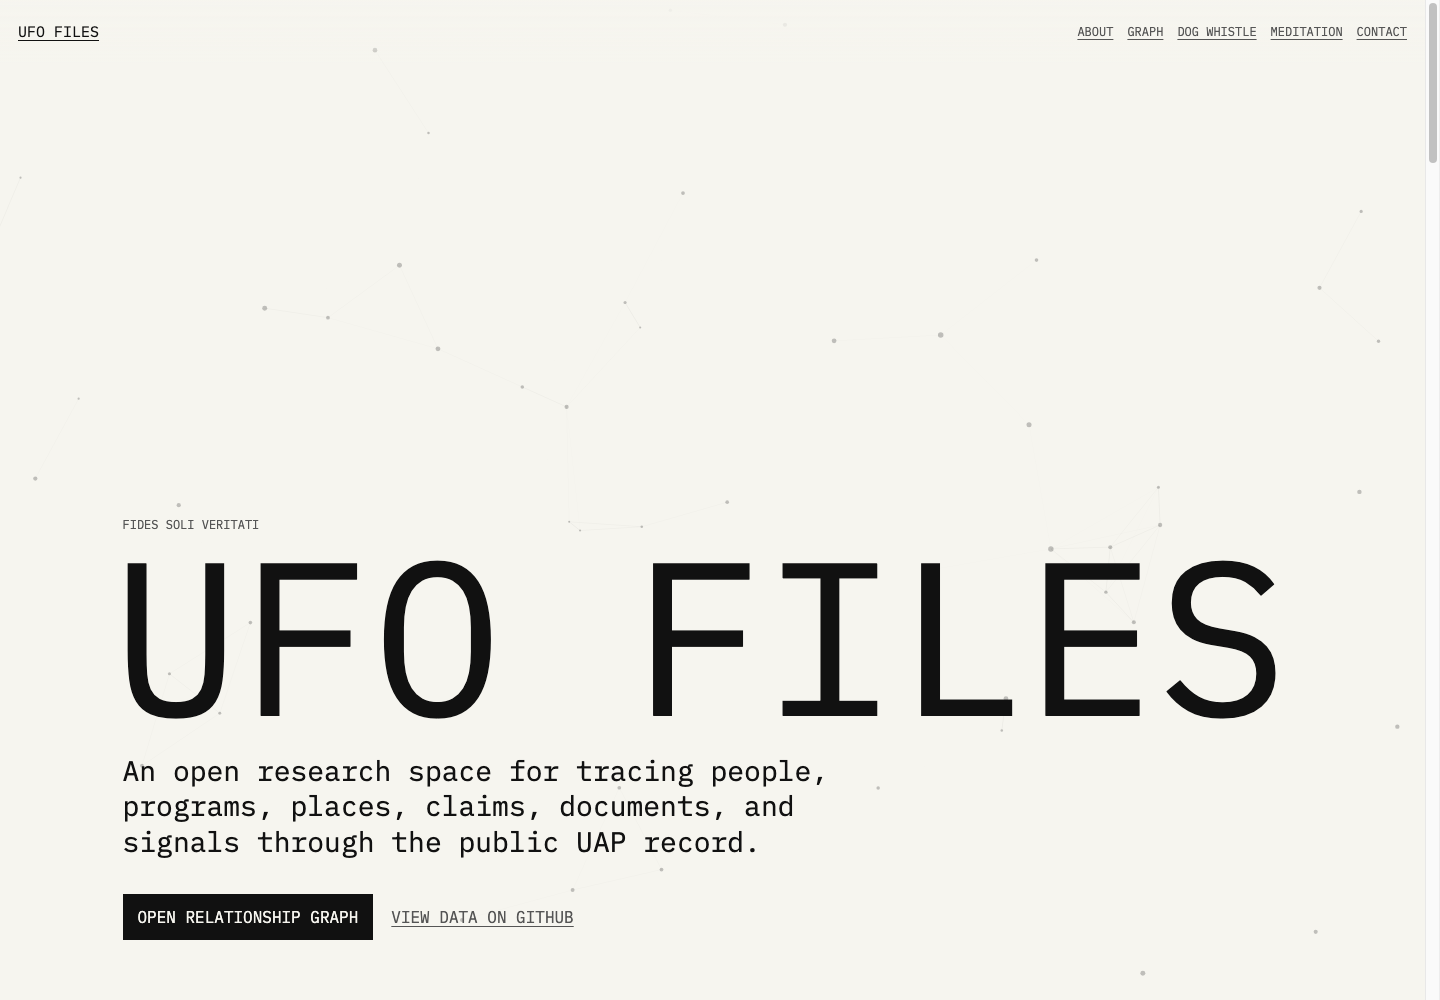
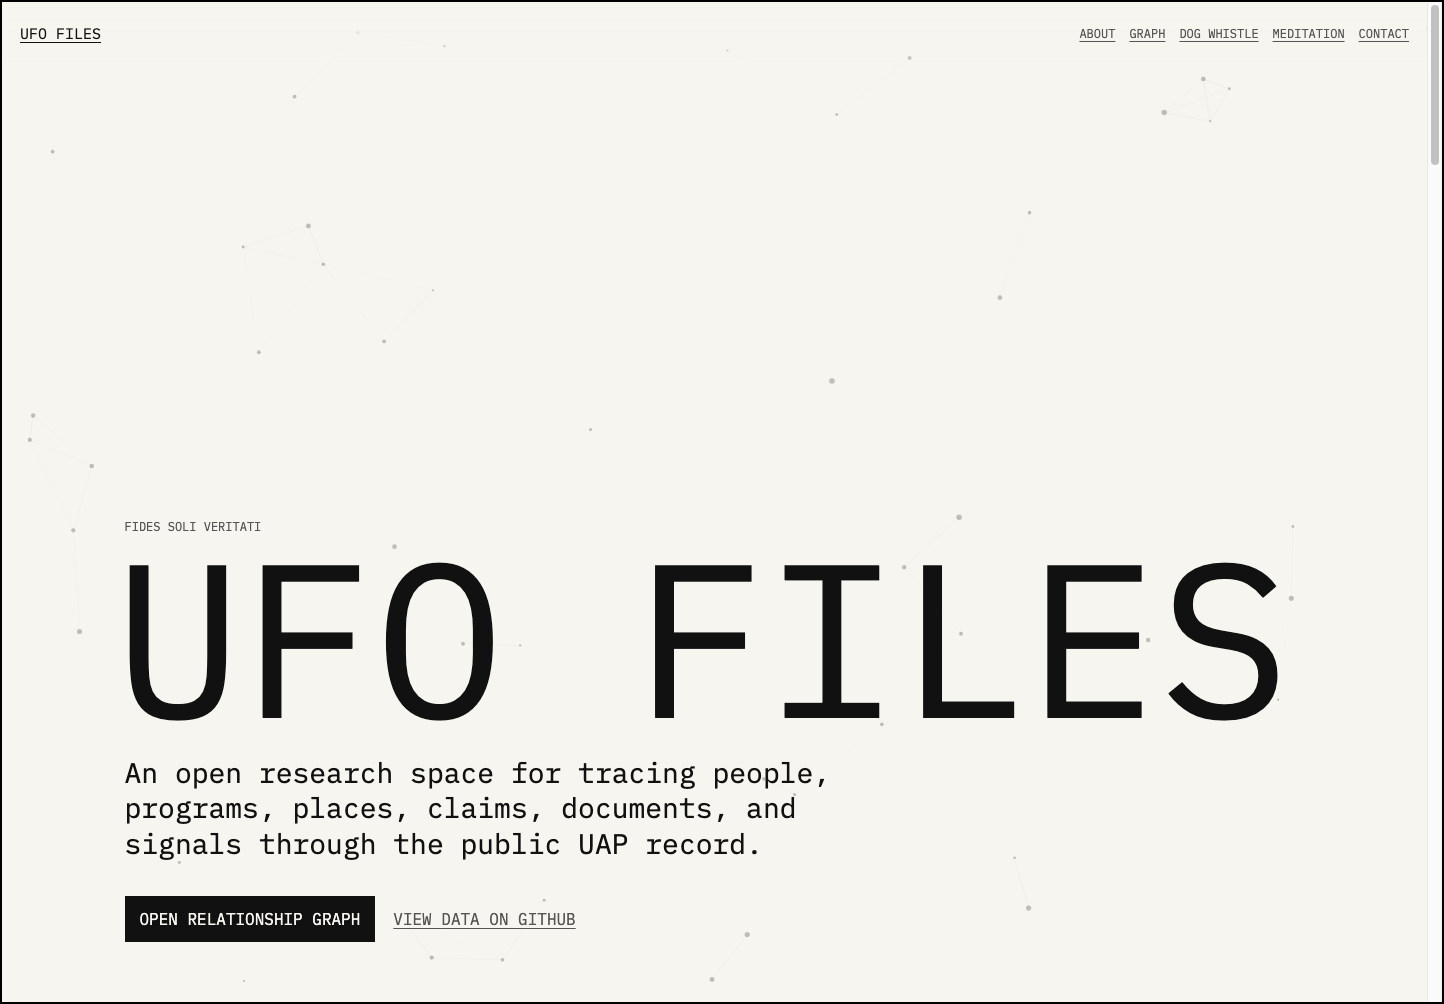
Add README screenshot refresh workflow

diff --git a/script.js b/script.js
@@ -1,12 +1,23 @@
 const fieldCanvas = document.getElementById("field");
 const fieldCtx = fieldCanvas.getContext("2d");
-const prefersReducedMotion = window.matchMedia("(prefers-reduced-motion: reduce)").matches;
+const screenshotMode = new URLSearchParams(window.location.search).has("screenshot");
+const prefersReducedMotion = screenshotMode || window.matchMedia("(prefers-reduced-motion: reduce)").matches;
 
 let viewportWidth = 0;
 let viewportHeight = 0;
 let fieldPoints = [];
 let pointer = { x: 0, y: 0, active: false };
 let animationFrame = 0;
+let screenshotSeed = 0;
+
+function seededRandom() {
+  screenshotSeed = (screenshotSeed * 1664525 + 1013904223) >>> 0;
+  return screenshotSeed / 4294967296;
+}
+
+function fieldRandom() {
+  return screenshotMode ? seededRandom() : Math.random();
+}
 
 function resize() {
   const ratio = Math.min(window.devicePixelRatio || 1, 2);
@@ -25,14 +36,15 @@ function resize() {
 
 function buildFieldPoints() {
   const count = Math.max(42, Math.round((viewportWidth * viewportHeight) / 28000));
+  screenshotSeed = (viewportWidth * 73856093) ^ (viewportHeight * 19349663) ^ 0x9e3779b9;
   fieldPoints = Array.from({ length: count }, (_, index) => {
     const angle = (index / count) * Math.PI * 2;
     return {
-      x: Math.random() * viewportWidth,
-      y: Math.random() * viewportHeight,
-      vx: Math.cos(angle) * (0.08 + Math.random() * 0.12),
-      vy: Math.sin(angle) * (0.08 + Math.random() * 0.12),
-      r: 1 + Math.random() * 1.8,
+      x: fieldRandom() * viewportWidth,
+      y: fieldRandom() * viewportHeight,
+      vx: Math.cos(angle) * (0.08 + fieldRandom() * 0.12),
+      vy: Math.sin(angle) * (0.08 + fieldRandom() * 0.12),
+      r: 1 + fieldRandom() * 1.8,
       ox: 0,
       oy: 0,
       rx: 0,